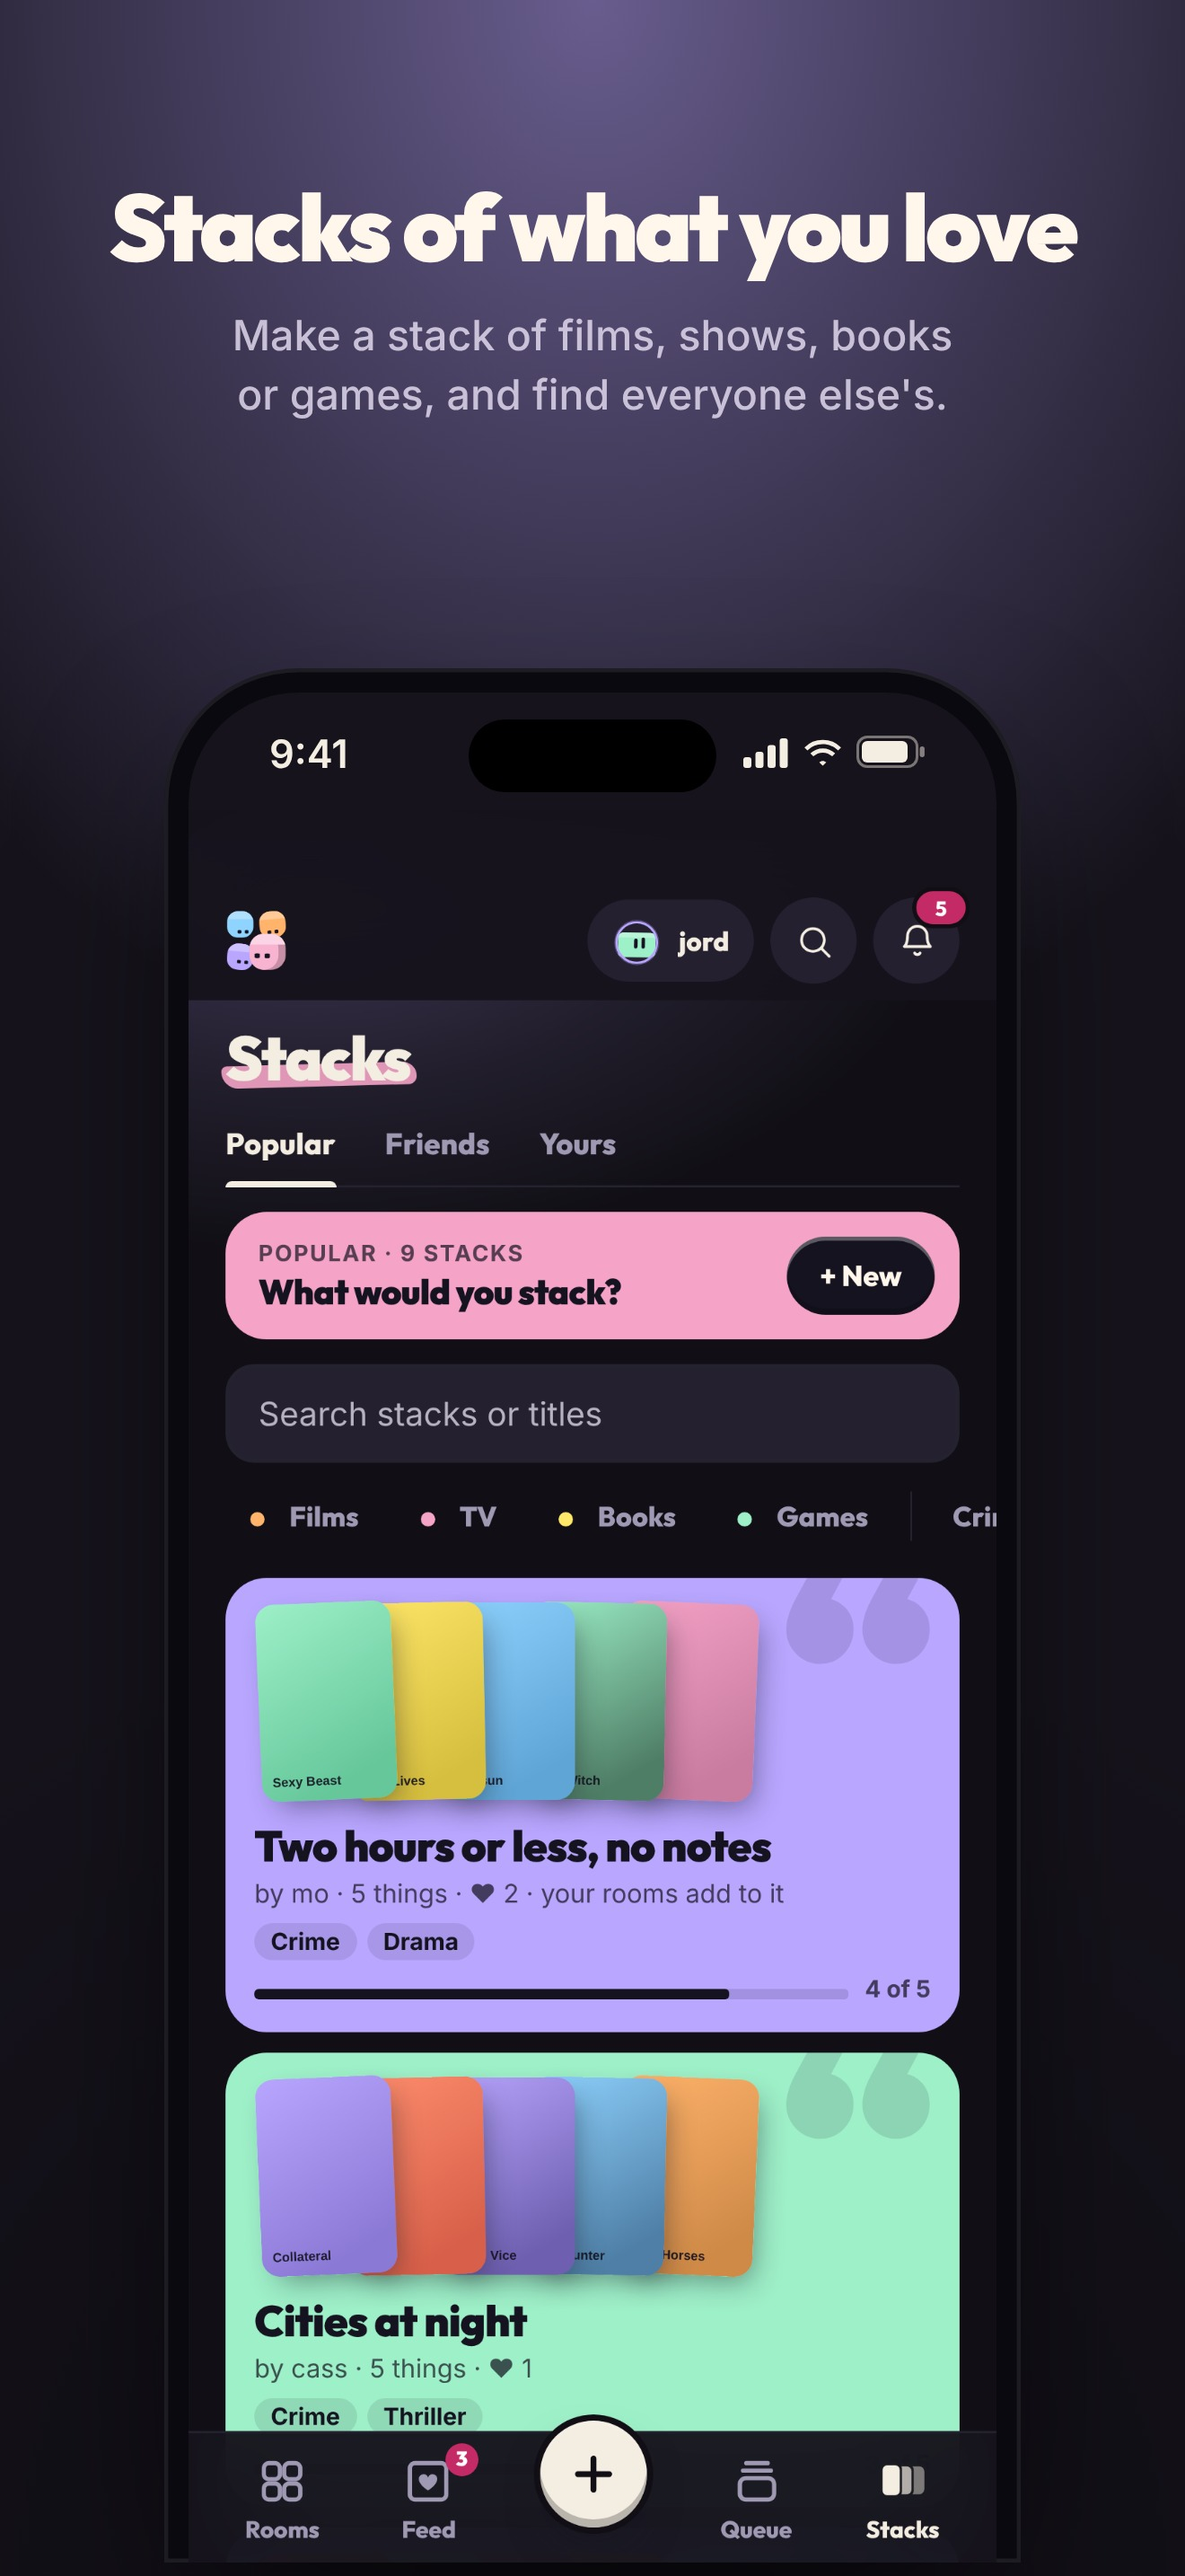
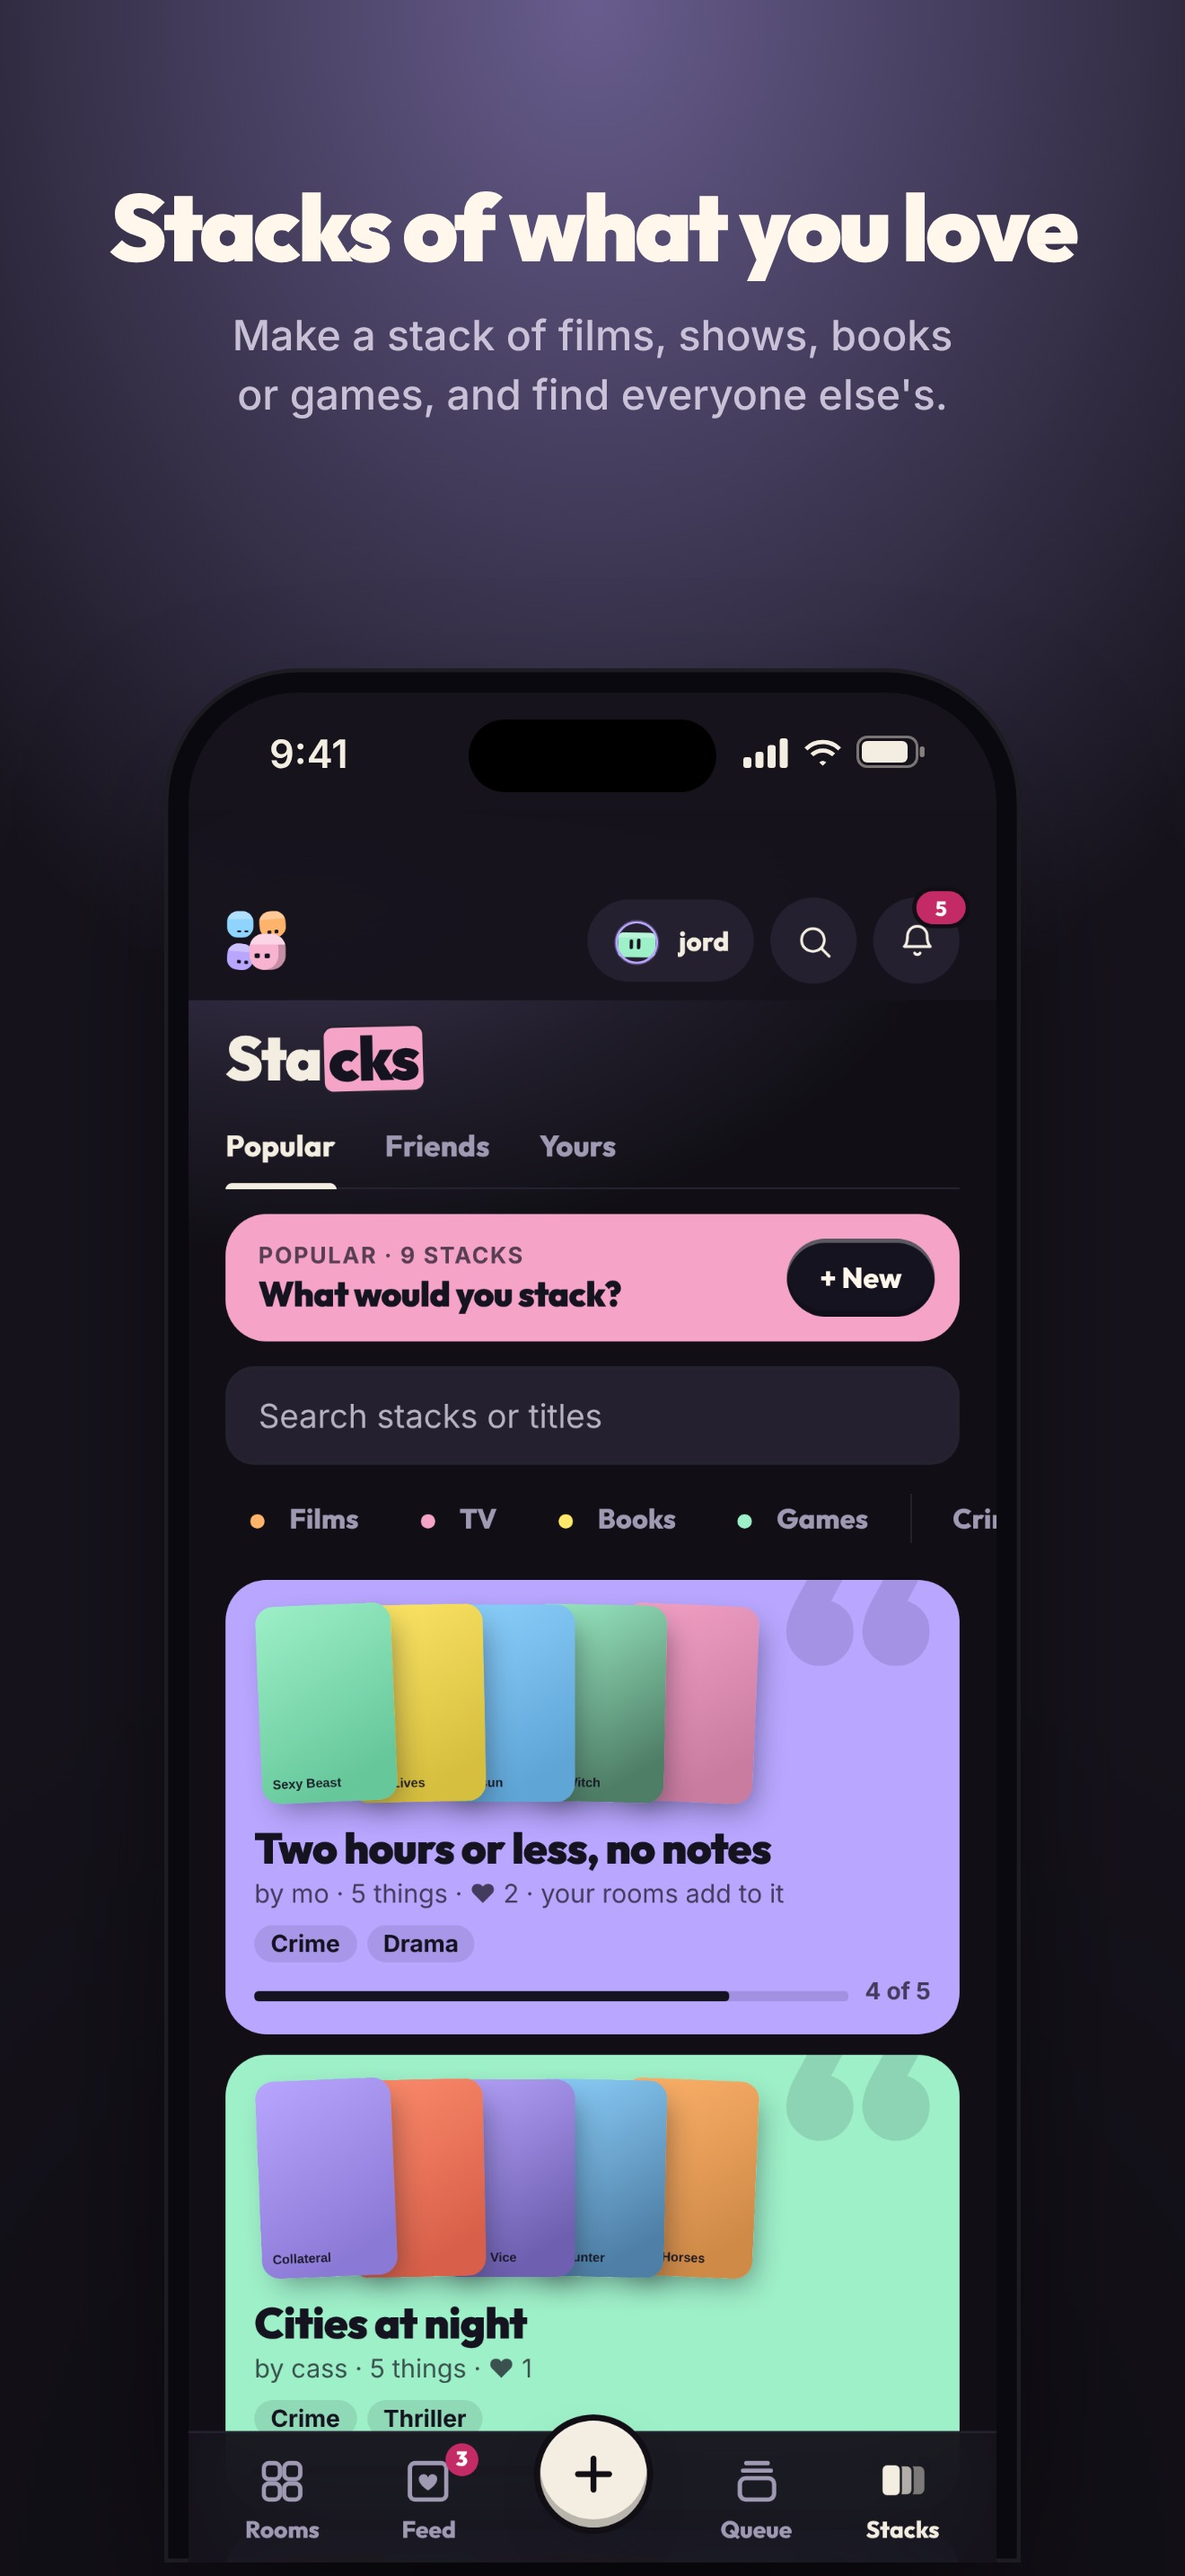
Page titles: part of each word in its own coloured block
Instead of the marker stroke, each title puts some of its letters in a coloured
block, placed, tipped and rounded differently so no two look alike: F[ee]d in butter,
[Q]ueue in the colour of the Queue tab you're on, Sta[cks] in pink. A room's name picks
its own block from the name (a whole word, the first letter or the last few letters)
in cream on the room's colour, so every room looks different but stays the same.

Claude-Session: https://claude.ai/code/session_011zRNukvtAgYpnhJAdsmgH9

diff --git a/index.html b/index.html
@@ -2161,14 +2161,12 @@ nav button .dot{top:0;right:calc(50% - 24px)}
 .wk-card{flex:none;width:96px;border:0;background:none;padding:0;font:inherit;cursor:pointer;text-align:left;color:var(--ink)}
 .tr-thumb{display:block;width:96px;height:171px;border-radius:12px;overflow:hidden;background:var(--cream2)}.tr-thumb img{width:100%;height:100%;display:block}
 .wk-card small{display:block;font-size:11.5px;font-weight:700;margin-top:5px;color:var(--mute);line-height:1.25}
-/* page titles: a thick marker stroke behind the word, in the page's colour */
-.pagetitle:not(:has(.feedpick)){width:fit-content;max-width:100%;position:relative;isolation:isolate}
-.pagetitle:not(:has(.feedpick))::before,.roomhero .feedpick::before{content:"";position:absolute;left:-.06em;right:-.1em;bottom:.08em;height:.36em;
-  background:var(--mk,var(--butter));border-radius:.2em .5em .3em .6em;rotate:-1.5deg;z-index:-1;opacity:.9;pointer-events:none}
-.roomhero .feedpick{position:relative;isolation:isolate}
-.roomhero .feedpick::before{right:30px;background:#FFF7EC;opacity:.75}
-#tab-people .pagetitle{--mk:var(--butter)}
-#tab-clubs .pagetitle{--mk:var(--pink)}
+/* page titles: part of the word sits in a coloured block, placed, tipped and rounded
+   differently on each one so no two titles look the same */
+.pagetitle .mk{display:inline-block;background:var(--mkc,var(--mk,var(--butter)));color:var(--onAccent);border-radius:var(--rad,.16em);
+  padding:.03em .07em .05em;margin:0 .03em;rotate:var(--r,0deg);line-height:.95}
+.roomhero .pagetitle .mk{--mkc:#FFF7EC}
+.roomhero .feedpick .hl{padding:.12em .1em;margin:-.12em -.1em}
 /* the slim top block: same colour, one short row */
 .hero.slim{display:flex;align-items:center;gap:12px;padding:12px 12px 12px 16px;border-radius:20px}
 .hero.slim::before{content:none}
@@ -3386,7 +3384,7 @@ html.svopen .toast{z-index:21}
   <section id="tab-auth" class="on"><div class="auth" id="authBody"></div></section>
   <section id="tab-doors"><div id="doorsBody"></div></section>
   <section id="tab-people"><div id="peopleBody"></div></section>
-  <div class="libbar" id="libBar" hidden><h2 class="pagetitle" data-pagetitle="Queue">Queue</h2><div class="seg glide ul" role="tablist" aria-label="Your queue"><span class="segglide"></span>
+  <div class="libbar" id="libBar" hidden><h2 class="pagetitle" data-pagetitle="Queue"><span class="mk" style="--r:5deg;--rad:.14em">Q</span>ueue</h2><div class="seg glide ul" role="tablist" aria-label="Your queue"><span class="segglide"></span>
     <button data-lib="shelf" role="tab">Up next</button><button data-lib="archive" role="tab">Diary</button><button data-lib="ranked" role="tab">Ranked</button></div></div>
   <section id="tab-archive"><div id="archiveBody"></div></section>
   <section id="tab-shelf"><div id="shelfBody"></div></section>
@@ -7542,6 +7540,22 @@ function wireCaughtUp(root) { const el = $(".caughtup", root); if (!el) return;
   if (REDUCED || !("IntersectionObserver" in window)) { el.classList.add("hit"); return; }
   const io = new IntersectionObserver(xs => { if (!xs.some(x => x.isIntersecting)) return; el.classList.add("hit"); buzz(5); io.disconnect(); }, { threshold:.9 });
   io.observe(el); }
+/* ---------- the block in a page title ----------
+   Each page's title has its own: which letters, which way it tips, how round it is. A
+   room's name picks its block from the name itself, so every room looks different but
+   the same room always looks the same. */
+const TITLE_MARKS = { Feed:{ at:[1, 3], r:-4, col:"butter", rad:".24em" }, Queue:{ at:[0, 1], r:5, rad:".14em" }, Stacks:{ at:[3, 6], r:-1.5, col:"pink", rad:".18em" } };
+function markHTML(t, sp) { const [a, b] = sp.at;
+  if (!(b > a) || !t.slice(a, b).trim()) return esc(t);
+  return `${esc(t.slice(0, a))}<span class="mk" style="--r:${sp.r}deg;--rad:${sp.rad}${sp.col ? `;--mkc:var(--${sp.col})` : ""}">${esc(t.slice(a, b))}</span>${esc(t.slice(b))}`; }
+const titleMark = t => TITLE_MARKS[t] ? markHTML(t, TITLE_MARKS[t]) : esc(t);
+function roomMark(name) { const t = String(name || ""); if (t.length < 2) return esc(t);
+  const h = avHash(t), sp = t.lastIndexOf(" "), first = t.indexOf(" "), pick = h % 4;
+  const at = pick === 0 && sp > 0 ? [sp + 1, t.length]
+    : pick === 1 ? [0, 1]
+    : pick === 2 && first > 0 && first <= 5 ? [0, first]
+    : [Math.max(sp + 1, t.length - 3), t.length];
+  return markHTML(t, { at, r:[-4, -2, 2, 4][(h >> 3) % 4], rad:[".12em", ".18em", ".24em"][(h >> 5) % 3] }); }
 function pagerHTML(places, curKey, o = {}) {
   const at = Math.max(0, places.findIndex(p => p.key === curKey)), cur = places[at], many = places.length > 1;
   const id = o.id ? ` id="${o.id}"` : "";
@@ -7549,12 +7563,12 @@ function pagerHTML(places, curKey, o = {}) {
   if (o.mode === "chips") return `<div class="pager pchips"${id}>${many ? `<div class="chiprow" role="tablist">${places.map((p, i) =>
       `<button class="chip pchip ${p === cur ? "on" : ""}" data-place="${esc(p.key)}" role="tab" aria-selected="${p === cur}">${p.key ? `<i style="background:${p.col}"></i>` : ""}${esc(i === 0 && o.allLabel ? o.allLabel : p.name)}</button>`).join("")}</div>` : ""}</div>`;
   /* a few places side by side (the season, your clubs): the page's name, then labelled tabs */
-  if (o.mode === "tabs") return `<div class="pager ptabs"${id}>${o.title ? `<h2 class="pagetitle" data-pagetitle="${esc(o.title)}">${esc(o.title)}</h2>` : ""}${o.under || ""}
+  if (o.mode === "tabs") return `<div class="pager ptabs"${id}>${o.title ? `<h2 class="pagetitle" data-pagetitle="${esc(o.title)}">${titleMark(o.title)}</h2>` : ""}${o.under || ""}
       <div class="seg glide ul" role="tablist"><span class="segglide" aria-hidden="true"></span>${places.map(p =>
       `<button class="${p === cur ? "on" : ""}" data-place="${esc(p.key)}" role="tab" aria-selected="${p === cur}">${esc(p.name)}</button>`).join("")}</div></div>`;
   /* which room you're in: its name is the title, and tapping it lists everywhere you can go */
   const DOWN = `<svg viewBox="0 0 24 24" aria-hidden="true"><path d="M6 9l6 6 6-6"/></svg>`;
-  const name = `<i class="tdot" style="background:${cur.col}"></i><span class="hl">${esc(cur.name)}</span>`;
+  const name = `<i class="tdot" style="background:${cur.col}"></i><span class="hl">${o.titleId === "feedPick" ? roomMark(cur.name) : esc(cur.name)}</span>`;
   return `<div class="pager ptitle"${id}><h2 class="pagetitle" data-pagetitle="${esc(cur.name)}">${o.titleId
       ? `<button class="feedpick" id="${o.titleId}" aria-haspopup="dialog" aria-label="${esc(cur.name)} · ${esc(o.titleHint || "see them all")}">${name}${DOWN}</button>`
       : `<span class="feedpick">${name}</span>`}</h2></div>`; }
@@ -8369,7 +8383,7 @@ function paintStoryRow() { const row = $("#storyRow"); if (!row) return; const {
 
 async function renderPeople() {
   const body = $("#peopleBody"); if (!body || !me) return; const gen = ++peopleGen;
-  if (!$("#storyRow", body)) body.innerHTML = `<h2 class="pagetitle" data-pagetitle="Feed">Feed</h2><div class="storyrow" id="storyRow"></div><div id="pplFol">${skeleton(3, true)}</div>`;
+  if (!$("#storyRow", body)) body.innerHTML = `<h2 class="pagetitle" data-pagetitle="Feed">${titleMark("Feed")}</h2><div class="storyrow" id="storyRow"></div><div id="pplFol">${skeleton(3, true)}</div>`;
   const ids = follows.map(f => f.followee);
   let fol = [], all = [];
   await Promise.all([
@@ -8386,7 +8400,7 @@ async function renderPeople() {
   const priv = new Set(myEntries.filter(e => e.private).map(e => e.id));
   storyGroups = storyGroupsOf([...fol, ...all], all.filter(e => e.user_id === me.id && !priv.has(e.id)));
   const shown = fol.slice(0, 40);
-  body.innerHTML = `<h2 class="pagetitle" data-pagetitle="Feed">Feed</h2>
+  body.innerHTML = `<h2 class="pagetitle" data-pagetitle="Feed">${titleMark("Feed")}</h2>
     <div class="storyrow" id="storyRow" role="list" aria-label="Who's logged something lately"></div>
     <div id="pplDaily"></div>
     <div id="pplFol">${!ids.length
